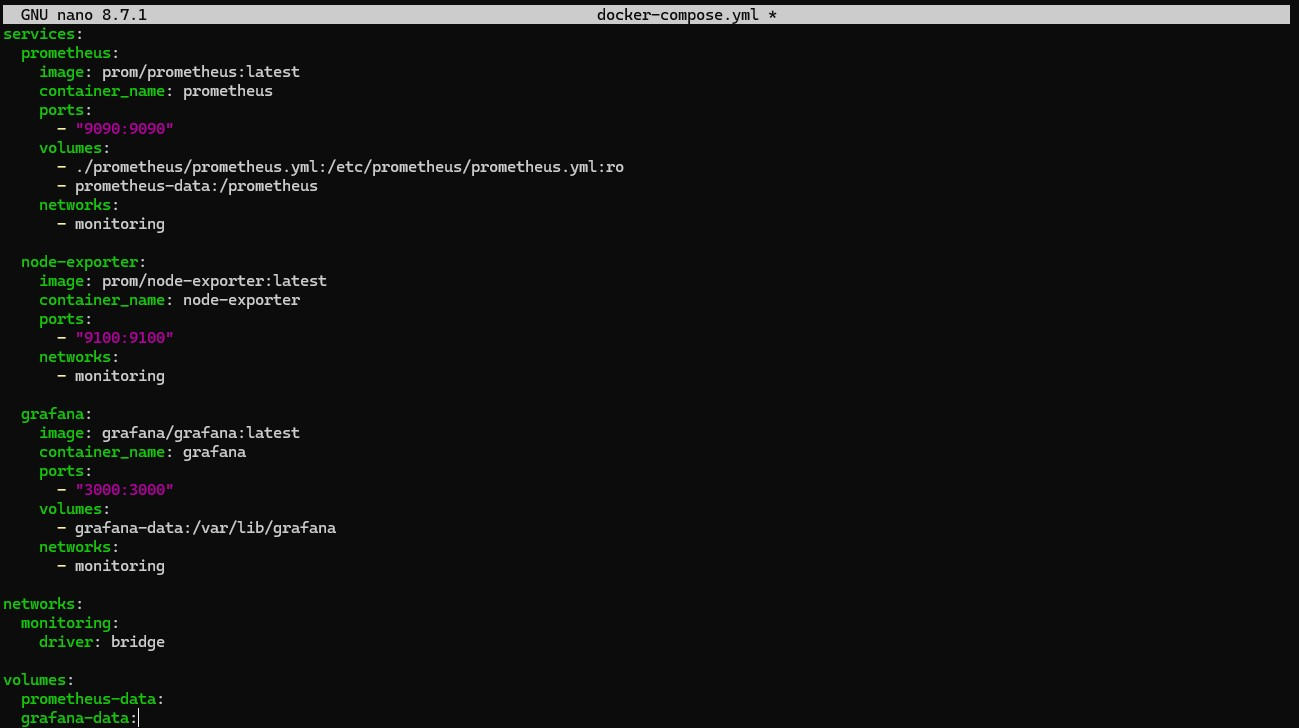
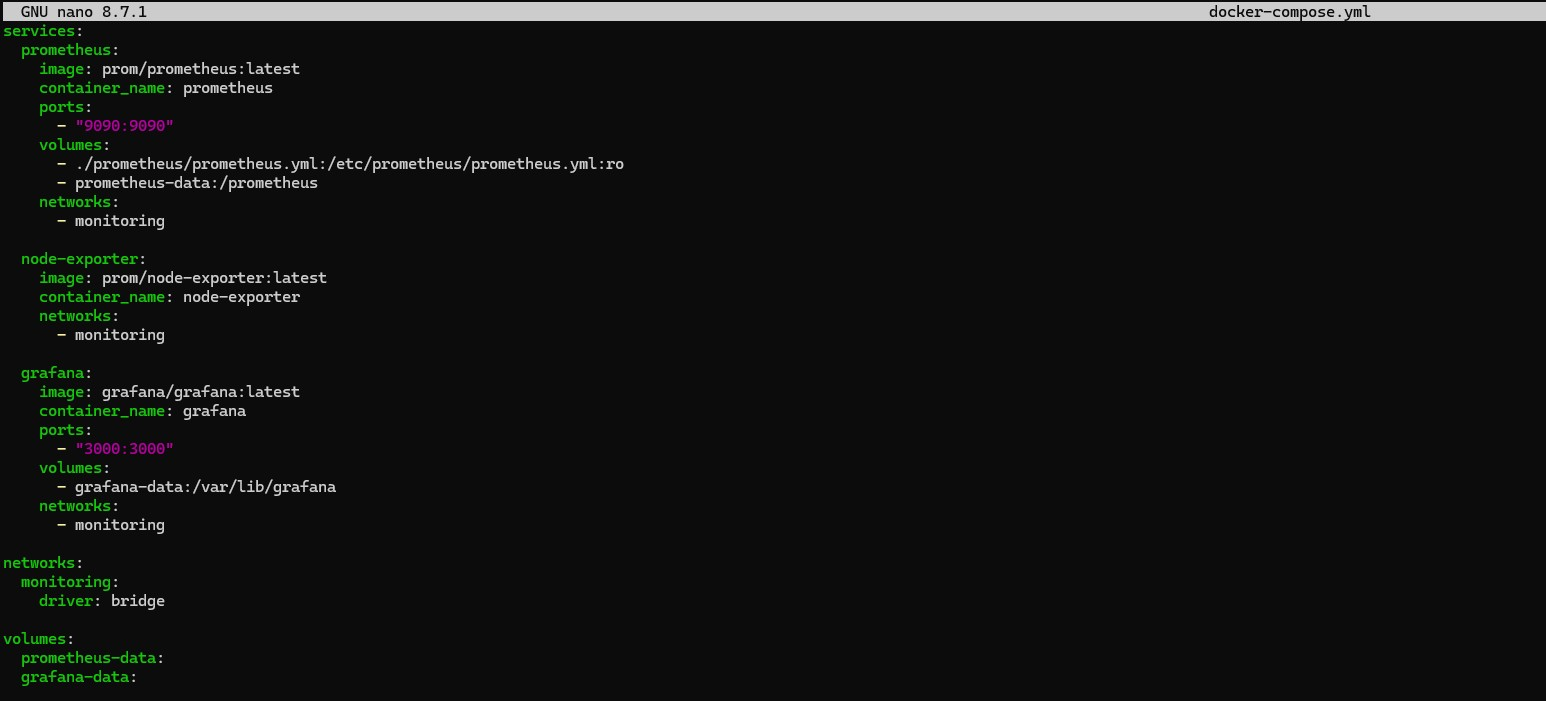
refactor node exporter network exposure
- removed external port 9100 exposure from node-exporter
- restricted metrics access to internal Docker networking only
- updated monitoring-stack-lab.md documentation to reflect internal-only exporter communication

Changed region(s): [[0.0, 0.0, 1.0, 1.0]]

diff --git a/docs/monitoring-stack-lab.md b/docs/monitoring-stack-lab.md
@@ -383,17 +383,29 @@ After initial authentication:
 After validating the monitoring stack deployment, I realized the services were still operating as stateless containers.
 
 This meant:
-- Grafana dashboards and configuration would be lost if the container was recreated
+- Grafana dashboards and configuration would be lost if containers were recreated
 - Prometheus metrics history would reset during redeployment
 - the deployment behaved more like a temporary demo environment than a realistic monitoring stack
 
-To address this, persistent Docker volumes were added to the Docker Compose configuration.
+During this review process, I also realized Node Exporter was unnecessarily exposing port `9100` to the local network through Docker port publishing.
 
-The compose file was updated to include persistent storage for:
-- Prometheus metrics data
-- Grafana dashboards and application data
+The original Node Exporter configuration looked like this:
 
-The updated configuration looked like this:
+```yaml
+node-exporter:
+  ports:
+    - "9100:9100"
+```
+
+Because Prometheus already communicated with Node Exporter internally through the shared Docker bridge network using Docker DNS and service discovery, external exposure of the metrics endpoint was unnecessary.
+
+The deployment was refined to:
+- add persistent Docker volumes
+- remove unnecessary external Node Exporter exposure
+- improve internal service isolation
+- reduce unnecessary network exposure
+
+The updated compose configuration looked like this:
 
 ```yaml
 services:
@@ -411,8 +423,6 @@ services:
   node-exporter:
     image: prom/node-exporter:latest
     container_name: node-exporter
-    ports:
-      - "9100:9100"
     networks:
       - monitoring
 
@@ -435,14 +445,20 @@ volumes:
   grafana-data:
 ```
 
-<p align="center"> <img src="../images/monitoring-stack-lab/10-persistent-storage.jpeg" width="800"> </p> <p align="center"> 
-<em>Docker Compose configuration updated with persistent Docker volumes for Prometheus and Grafana.</em> </p>
+<p align="center">
+  <img src="../images/monitoring-stack-lab/10-persistent-storage.jpeg" width="800">
+</p>
 
-Persistent storage is important because:
-- Grafana dashboards are lost if containers are recreated
-- Prometheus metrics history resets during redeployment
-- monitoring platforms require long-term metric retention
-- persistent volumes create more realistic operational deployments
+<p align="center">
+  <em>Docker Compose configuration updated with persistent Docker volumes and improved internal service isolation.</em>
+</p>
+
+These changes improved the deployment by:
+- preserving Prometheus metrics history
+- persisting Grafana dashboards and configuration
+- reducing unnecessary service exposure
+- reinforcing internal container-based communication
+- creating a more realistic operational monitoring environment
 
 ---
 
@@ -466,6 +482,58 @@ docker compose up -d
 </p>
 
 The redeployment recreated the containers while preserving persistent application data through Docker volumes.
+
+---
+
+### Restricting Node Exporter Exposure
+
+After validating the monitoring stack deployment, I realized Node Exporter was still exposing port `9100` to the local network through Docker port publishing.
+
+The original configuration looked like this:
+
+```yaml
+node-exporter:
+  ports:
+    - "9100:9100"
+```
+
+This configuration allowed external access to the Node Exporter metrics endpoint.
+
+Because Prometheus already communicated with Node Exporter internally through the shared Docker bridge network using Docker DNS, exposing the exporter to the LAN was unnecessary.
+
+The external port mapping was removed and the service was restricted to internal container networking only.
+
+The updated configuration looked like this:
+
+```yaml
+node-exporter:
+  image: prom/node-exporter:latest
+  container_name: node-exporter
+  networks:
+    - monitoring
+```
+
+<p align="center">
+  <img src="../images/monitoring-stack-lab/11-restricting-node-exporter.jpeg" width="800">
+</p>
+
+<p align="center">
+  <em>Removing unnecessary external port exposure from the Node Exporter service.</em>
+</p>
+
+This improved the deployment by:
+- reducing unnecessary network exposure
+- limiting access to internal monitoring services
+- reinforcing internal service isolation
+- aligning the stack with least-exposure infrastructure practices
+
+Prometheus continued scraping metrics successfully through internal Docker networking using:
+
+```yaml
+targets: ["node-exporter:9100"]
+```
+
+This demonstrated how containerized infrastructure services can communicate securely without requiring public port exposure.
 
 ---
 